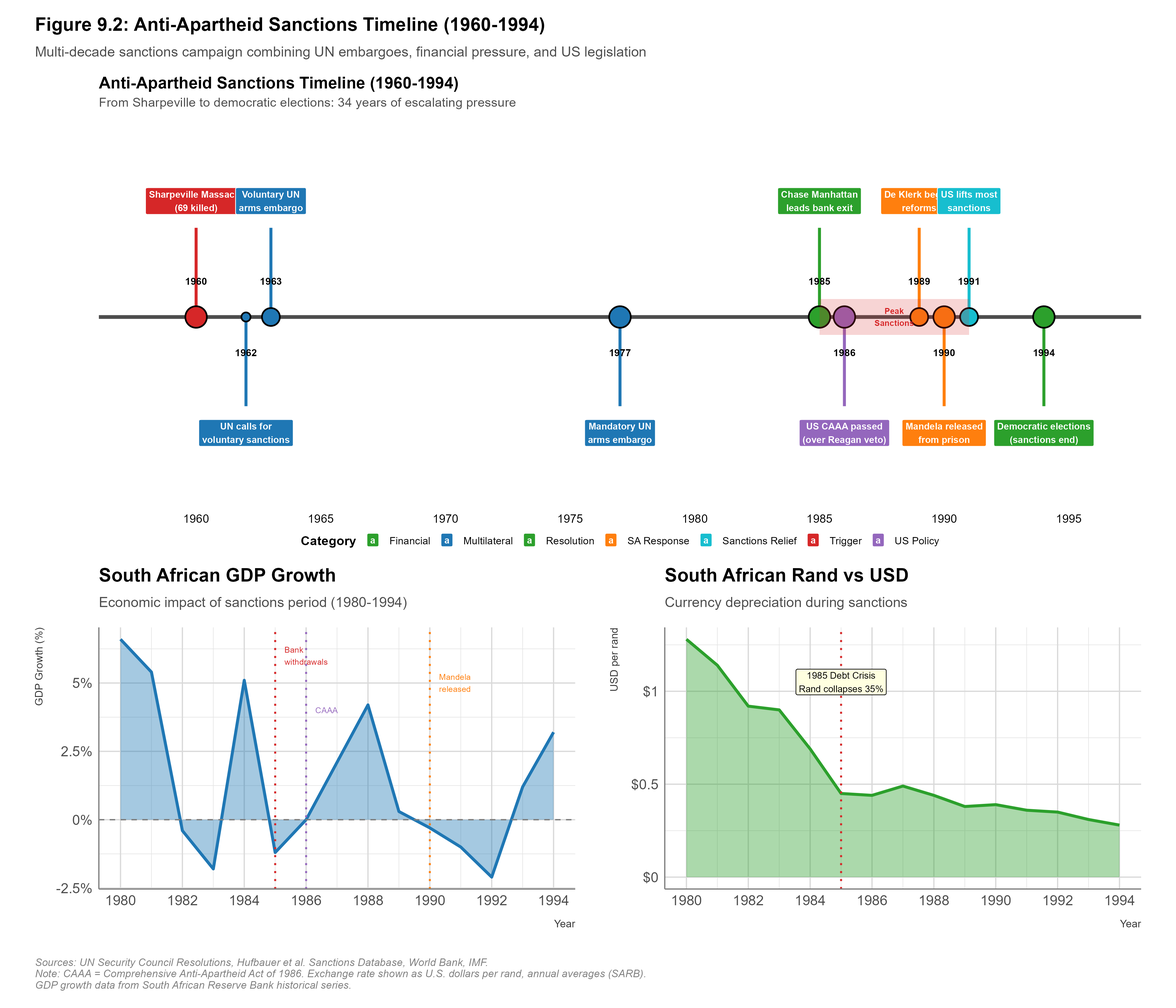
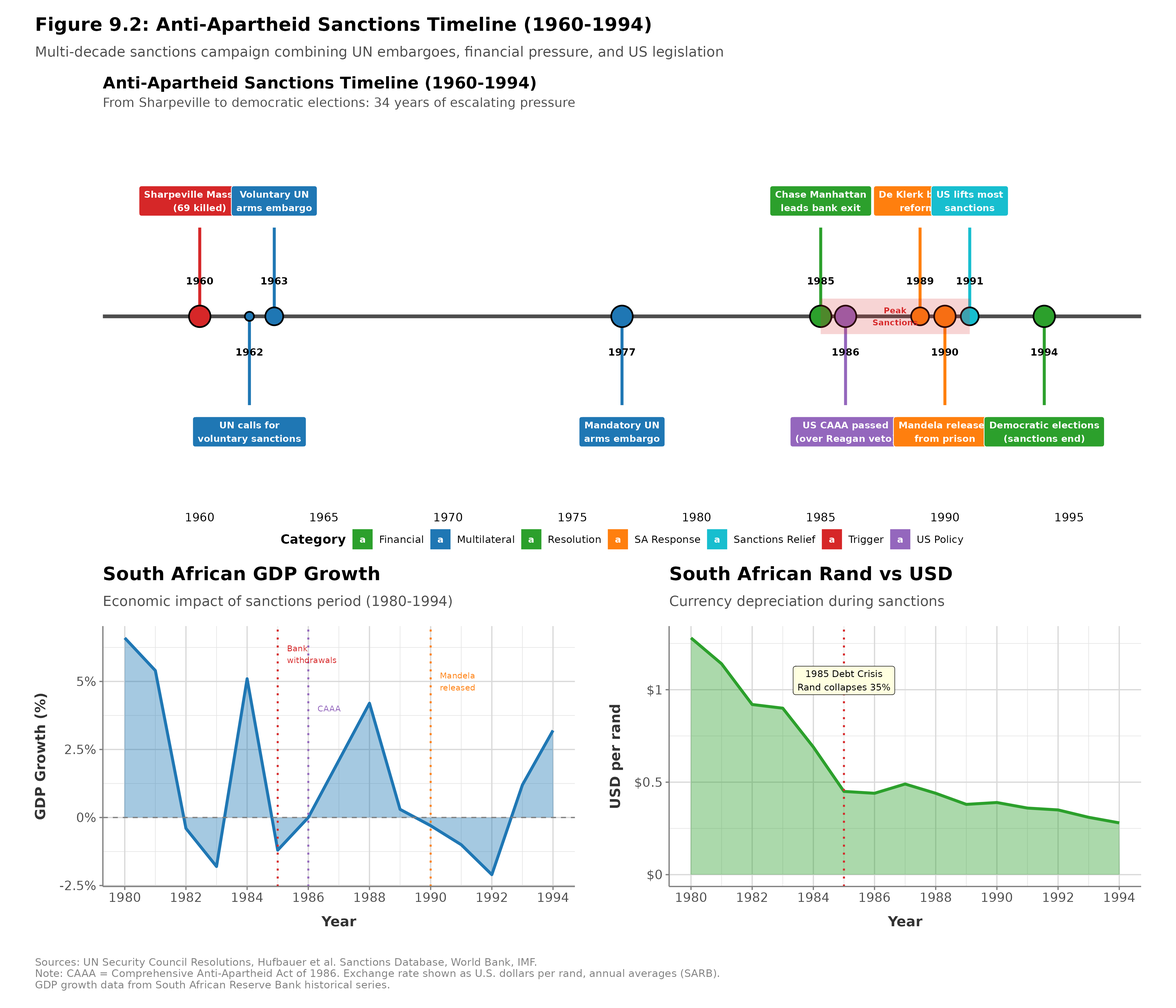
Discuss every figure in the prose; rebuild figures now that R is available
Five chapters (2, 3, 4, 7, 8) referred to none of their own figures, and across the
book only 11 of 42 embedded figures were mentioned in the text at all. Charts that
the prose never points at read as decoration, and several of these carry the
chapter's actual argument.

Added a sentence of interpretation immediately before each of the 42 figures. They
are written to add an angle rather than restate the caption: what the chart shows
that the surrounding paragraphs do not, what to be careful about in reading it, or
how it bears on the two-margins framework. Every embedded figure is now discussed.

Also rebuilt the figures whose plotting packages became available (49 of 62 scripts
now run here). The remaining 13 need tmap, rnaturalearth, treemapify, or ggradar,
which this environment cannot fetch; those are map and specialty figures whose
geography is unaffected by the data corrections, and their images are unchanged.

diff --git a/chapters/chapter_3.md b/chapters/chapter_3.md
@@ -142,10 +142,14 @@ Oil trade flows reveal critical dependencies. Europe imports approximately 90% o
 
 These chokepoints create strategic leverage for countries that can threaten closure (Iran over Hormuz, Yemen/Houthis over Bab el-Mandeb) and for naval powers that can secure or blockade them (United States, potentially China or India). They also shape energy policy: Japan's almost total dependence on oil transiting Malacca drives Japanese interest in Middle Eastern stability and U.S.-Japan security cooperation. China's anxiety about "Malacca Dilemma" motivates land-based alternatives (pipelines from Russia and Central Asia), naval expansion to protect sea lanes, and strategic petroleum reserves to buffer disruptions.
 
+Figure 3.1 renders these passages at the scale of the flows they carry. Hormuz dominates the picture for a reason that the map makes plain: no other chokepoint combines that volume with so little capacity to route around it.
+
 <figure class="book-figure">
   <img src="../figures/fig_03_04_chokepoints.png" alt="Critical maritime passages for global energy transit. The Strait of Hormuz handles 21 million barrels per day—closure would immediately trigger global recession. Size indicates oil transit volume; color indicates strategic importance.">
   <figcaption>Figure 3.1: Critical maritime passages for global energy transit. The Strait of Hormuz handles 21 million barrels per day—closure would immediately trigger global recession. Size indicates oil transit volume; color indicates strategic importance.</figcaption>
 </figure>
+
+Figure 3.2 extends the same logic from straits to terminals. Ownership of a port confers nothing as dramatic as the power to close a strait, but the map shows how widely distributed those holdings have become, and geography of this kind accumulates quietly and is difficult to reverse.
 
 <figure class="book-figure">
   <img src="../figures/fig_03_07_strategic_ports.png" alt="Global strategic ports by type and volume. Red circles indicate ports with significant Chinese ownership or operational control, illustrating the geographic scope of China's maritime investment strategy.">
@@ -161,6 +165,8 @@ Europe's dependence on Russian gas developed over decades and became a defining 
 Multiple pipelines carried Russian gas to Europe, forming an interconnected infrastructure network with distinct strategic implications. The Ukrainian transit routes were historically the largest, carrying 40-50% of Russian gas exports through Ukraine to Central and Western Europe (IEA 2022). Ukraine earned $2-3 billion annually in transit fees from this arrangement, but Russia repeatedly cut gas during disputes with Ukraine in 2006, 2009, and 2014, affecting downstream European customers and demonstrating gas's utility as coercive leverage. The five-year Russia-Ukraine transit contract expired on 1 January 2025 and was not renewed, ending Russian pipeline gas flows across Ukraine to Europe for the first time since the Soviet era (Reuters 2025). To reduce dependence on Ukrainian transit, Russia pursued alternative routes. Nord Stream 1, completed in 2011, ran as a subsea pipeline through the Baltic Sea directly from Russia to Germany, bypassing Ukraine entirely with a capacity of 55 billion cubic meters per year (bcm/year). Its parallel successor, Nord Stream 2, was completed in 2021 but never became operational; the project faced intense U.S. opposition from both the Trump and Biden administrations as well as Ukrainian and Polish objections, and Germany's certification process was suspended days before Russia's 2022 Ukraine invasion, after which the pipelines were destroyed by underwater explosions in September 2022. German federal prosecutors, who led the principal investigation, issued an arrest warrant in June 2024 for a Ukrainian national and in 2025 secured the arrest in Italy of another Ukrainian suspect, pointing to a Ukrainian-linked operation rather than the Russian sabotage many initially assumed. To the south, TurkStream, completed in 2020, carried gas through a subsea Black Sea pipeline to Turkey and onward to Southern Europe with a capacity of 31.5 bcm/year. The Yamal-Europe pipeline provided yet another route, running through Belarus and Poland to Germany, though Russia reduced flows through it in 2021-2022 as tensions escalated.
 
 This infrastructure created a relationship of asymmetric interdependence. Europe depended on Russian gas for heating, power generation, and industrial processes (especially the German chemical industry). Russia, in turn, depended on European energy revenue—though the fiscal stakes are often overstated. Oil and gas together supplied roughly 35-45% of Russian federal budget revenue in the years before 2022; natural gas alone accounted for a far smaller share, with pipeline gas exports to Europe worth on the order of $40-70 billion annually against total oil-and-gas budget revenues several times larger (IEA 2022). Conventional wisdom held that mutual dependence ensured supply stability, on the assumption that neither side could afford disruption. This was the standard logic of liberal internationalism, that deep economic investment in each other's prosperity makes war irrational. Russia's 2022 invasion of Ukraine falsified that assumption, indicating that regimes may value territorial objectives more than commerce.
+
+Figure 3.3 shows what that dependence looked like as physical infrastructure, and what became of it. The pipelines drawn in red and orange represent capital that took decades to build and was rendered idle in under a year, which is the most expensive illustration in this book of how quickly an asymmetric interdependence can be repriced.
 
 <figure class="book-figure">
   <img src="../figures/fig_03_08_russian_pipelines.png" alt="Russian oil and gas pipeline networks to Europe and Asia. Green indicates operational pipelines, orange shows reduced flow, red marks damaged or closed infrastructure. The Nord Stream pipelines were destroyed by underwater explosions in September 2022; Russian pipeline gas transit through Ukraine ended entirely on 1 January 2025, when the five-year transit contract expired.">
@@ -182,6 +188,8 @@ The winter of 2022-2023 was the period of greatest European vulnerability. Russi
 Longer-term restructuring followed. Germany announced 13+ new LNG terminals and diversification of supply. Eastern European nations accelerated connections to non-Russian sources. The European Union's REPowerEU plan targeted rapid renewable deployment, efficiency improvements, and hydrogen development to eliminate Russian fossil fuel imports by 2027. Whether Europe maintains the political will to sustain these investments, and whether the transition proves economically sustainable, remains uncertain. The crisis nonetheless showed that Russia would sacrifice gas revenue for geopolitical gains, and that energy dependencies constrain the foreign-policy autonomy of importers.
 
 ### Energy Transition: Trading Old Dependencies for New
+
+Figure 3.4 is the argument of this section in a single chart. Read beside Figure 3.3, it suggests that Europe's escape from Russian gas has not ended its exposure to energy geopolitics so much as changed the counterparty and moved the chokepoint upstream into manufacturing.
 
 <figure class="book-figure">
   <img src="../figures/fig_03_06_renewable_manufacturing.png" alt="China's dominant share in renewable energy manufacturing across solar, wind, and battery supply chains.">

diff --git a/chapters/chapter_1.md b/chapters/chapter_1.md
@@ -55,6 +55,8 @@ Henry Farrell and Abraham Newman's concept of "weaponized interdependence" captu
 
 These hub positions create what Farrell and Newman call "panopticon" and "chokepoint" effects. The panopticon effect allows the hub state to see network flows—monitoring transactions, communications, and exchanges. The chokepoint effect allows it to deny access—blocking specific actors from the network or withholding critical inputs. Both capabilities can be weaponized: surveillance enables intelligence gathering and sanctions enforcement, while denial enables coercion.
 
+Figure 1.1 draws these hub positions as a network rather than a list. Rendered this way, the asymmetry is visible without any accompanying statistic: a handful of nodes sit astride most of the paths through the system, and it is occupancy of those nodes, not aggregate economic size, that the rest of this book treats as the source of coercive power.
+
 <figure class="book-figure">
   <img src="../figures/fig_01_05_interdependence_network.png" alt="Network diagram of weaponized interdependence showing U.S. and Chinese hub positions across finance, technology, energy, and digital infrastructure.">
   <figcaption>Figure 1.1: Weaponized interdependence — hub positions of the United States and China across critical economic networks.</figcaption>
@@ -154,6 +156,8 @@ American policymakers embraced transformative engagement: integrating China into
 
 China's WTO accession in 2001 accelerated integration dramatically. Two-way trade in goods grew from $116 billion (2000) to $407.5 billion (2008) (U.S. Census Bureau; the trade figures cited in this book are two-way *goods* trade at nominal values unless noted—counting services would raise recent totals by roughly $100 billion). China became "the world's factory," and the relationship appeared to validate the liberal assumption that economic interdependence promotes cooperation.
 
+Figure 1.2 traces that relationship across three and a half decades. Two features deserve attention: the near-uninterrupted climb to the 2022 record, and the sharp contraction in 2025 under the tariff regime examined in Chapter 6. The second is a reminder that the interdependence described here is a policy variable, not a permanent condition.
+
 <figure class="book-figure">
   <img src="../figures/fig_01_02_us_china_trade.png" alt="US-China Trade Volume and Key Events (2000-2024)">
   <figcaption>Figure 1.2: US-China Trade Volume and Key Events (2000-2024)</figcaption>
@@ -172,6 +176,8 @@ American concerns intensified around IP theft, forced technology transfer, indus
 #### Phase 3: Strategic Competition (2017-Present)
 
 The 2017 National Security Strategy designated China a "strategic competitor" seeking to "erode American security and prosperity" (White House 2017)—a fundamental reframing from partner to rival. Economic statecraft became the primary domain of competition.
+
+Figure 1.3 arranges the principal episodes chronologically. The clustering is the point: the density of events after 2017 reflects not merely more assertive policy but the maturation of instruments — entity lists, foreign direct product rules, investment screening — that barely existed in usable form a decade earlier.
 
 <figure class="book-figure">
   <img src="../figures/fig_01_04_timeline.png" alt="Timeline of Major Economic Coercion Events">
@@ -298,6 +304,8 @@ Readers will encounter these three concepts repeatedly in the chapters that foll
 ## Conceptual Framework for Analyzing Economic Coercion
 
 Analyzing specific instances of economic coercion requires systematic analytical tools. This framework, applied throughout subsequent chapters, organizes analysis across four dimensions: **domain**, **target**, **objective**, and **intensity**.
+
+Figure 1.4 sets out the framework in schematic form. It is worth returning to as the chapters accumulate cases, since its value lies less in classifying any single episode than in making visible which combinations of domain, target, and objective recur and which are almost never attempted.
 
 <figure class="book-figure">
   <img src="../figures/fig_01_01_framework.png" alt="Conceptual Framework for Analyzing Economic Coercion">
@@ -611,6 +619,8 @@ The Coordinating Committee for Multilateral Export Controls (CoCom) represents t
 CoCom was created informally in 1949 (never codified by treaty) by the United States, United Kingdom, France, Italy, Netherlands, Belgium, and Luxembourg, later expanding to include all NATO members (except Iceland) plus Japan and Australia—17 members at peak. The committee maintained three control lists: munitions, atomic energy, and industrial/commercial items with potential military applications. Member countries agreed to deny export licenses for listed items to Soviet Union, Eastern European communist states, China (until 1980s), North Korea, Vietnam, Cambodia, and Laos.
 
 The organizational structure was deliberately informal: consensus decision-making, no enforcement mechanism, voluntary compliance by members. The U.S. provided most intelligence on Soviet technology gaps and applied diplomatic pressure for strict controls, while European members and Japan often preferred looser restrictions to maintain commercial opportunities.
+
+Figure 1.6 compresses CoCom's four decades into a single line. The durability is the finding: an arrangement with no treaty basis, no enforcement mechanism, and no secretariat worth the name outlasted most of the formal institutions of the period, which is the strongest available evidence that coordination in export control depends more on shared threat perception than on legal architecture.
 
 <figure class="book-figure">
   <img src="../figures/fig_01_06_cocom_timeline.png" alt="Timeline of CoCom from its 1949 founding through its 1994 dissolution and the 1996 establishment of the Wassenaar Arrangement, marking expansions, crises, and loosening episodes.">

diff --git a/chapters/chapter_6.md b/chapters/chapter_6.md
@@ -48,6 +48,8 @@ The Trump administration's broad interpretation of "national security" under Sec
 
 ### The U.S.-China Trade War: Escalation and Impacts
 
+Figure 6.1 tracks average applied tariff rates through the successive rounds. The stepwise shape matters for the argument that follows: tariffs escalated in discrete, announced increments and came down only partially, so that each truce reset the level rather than the instrument.
+
 <figure class="book-figure">
   <img src="../figures/fig_06_01_us_china_tariffs.png" alt="U.S.-China tariff rates and trade flows from 2018-2024, showing the escalation of the trade war.">
   <figcaption>Figure 6.1: U.S.-China tariff rates and trade flows from 2018-2024, showing the escalation of the trade war.</figcaption>
@@ -253,6 +255,8 @@ For all their differences, these regimes share a common set of pressures. The fi
 ### U.S. Unilateral Export Controls: The Export Administration Regulations
 
 The United States maintains the world's most extensive unilateral export control system, codified in the **Export Administration Regulations (EAR)**, 15 C.F.R. Part 730 et seq. The Commerce Department's Bureau of Industry and Security (BIS) administers EAR based on statutory authority from the **Export Control Reform Act of 2018** (ECRA), 50 U.S.C. § 4801 et seq. (For detailed legal analysis of EAR authorities, jurisdiction, enforcement, and the Entity List, see *Government Tools Box 3: Export Administration Regulations and Entity List.*)
+
+Figure 6.3 shows how quickly that list has grown. The trend line is more informative than any single designation: what began as a targeted proliferation tool has become a general-purpose instrument of technology policy, and the volume alone raises the administrative capacity questions taken up later in this chapter.
 
 <figure class="book-figure">
   <img src="../figures/fig_06_03_entity_list.png" alt="Entity List additions by administration, showing the growth of export control restrictions.">
@@ -512,6 +516,8 @@ China enacted Export Control Law (2020) establishing authority to:
 - **Antimony restrictions** (2024): Controls on antimony (used in semiconductors, solar panels, batteries, ammunition). China produces 48% globally, processes 63% (USGS 2024).
 - **Outright ban on exports to the United States** (December 2024): Responding to a fresh round of U.S. semiconductor controls, China banned exports of gallium, germanium, antimony, and superhard materials to the United States specifically—rather than merely licensing them—the first time Beijing singled out one country for a critical-mineral embargo (China Ministry of Commerce 2024).
 - **Rare-earth and magnet licensing** (April and October 2025): During the 2025 tariff escalation (see Case Study 1), China placed seven medium and heavy rare-earth elements and permanent-magnet products under export licensing (April 2025), then in October 2025 broadened the regime with extraterritorial provisions reaching any product made anywhere with Chinese-origin rare earths or processing technology—a mirror image of the U.S. Foreign Direct Product Rule. The controls were suspended for one year under the October 30 Busan truce (CSIS 2025).
+
+Figure 6.5 places China's rare-earth measures against the American actions that preceded them. The sequencing rewards attention: Beijing's instruments arrived later and were narrower in scope, but they were aimed at the stage of the supply chain where substitution takes longest, which is why their announcement moved prices that tariff rounds did not.
 
 <figure class="book-figure">
   <img src="../figures/fig_06_04_rare_earth_retaliation.png" alt="Chinese critical-mineral and rare-earth export retaliation measures 2010-2025, showing targeted controls on gallium, germanium, graphite, and antimony alongside global production shares.">
@@ -836,6 +842,8 @@ The central European dilemma is how to coordinate with the United States on Chin
 **Section 301 of the Trade Act of 1974** (19 U.S.C. § 2411-2420) authorizes the U.S. Trade Representative (USTR) to investigate and retaliate against foreign government practices that are "unjustifiable," "unreasonable," or "discriminatory" and burden U.S. commerce. Unlike Section 232 (which requires a national security nexus), Section 301 covers virtually any unfair trade practice, making it the most consequential trade remedy tool in modern strategic competition.
 
 **Key application — the U.S.-China trade war**: USTR's August 2017 investigation found China engaged in forced technology transfer, discriminatory licensing, state-directed technology acquisition, and cyber-enabled IP theft. Tariffs escalated in waves: 25% on $50 billion (mid-2018), 10-25% on $200 billion (September 2018-May 2019), and 15% on $112 billion (September 2019). The January 2020 Phase One Agreement reduced some tariffs, but purchase commitments went largely unfulfilled. The Biden administration maintained all tariffs and added targeted increases (EVs to 100%, solar to 50%, semiconductors to 50%). At peak, tariffs affected $360 billion in Chinese imports (66% of total) at an effective average rate of 19.3%.
+
+Figure 6.6 summarises the Section 301 actions and their coverage. The breadth is the striking feature: a statute drafted to remedy specific unfair trade practices has carried the legal weight of a general tariff programme, which is the background to the constitutional questions raised by the later IEEPA litigation.
 
 <figure class="book-figure">
   <img src="../figures/fig_06_06_section_301.png" alt="Section 301 tariff coverage by product category and administration, showing the expansion of coverage across Trump and Biden administrations.">

diff --git a/chapters/chapter_2.md b/chapters/chapter_2.md
@@ -53,6 +53,8 @@ Comprehensive supply chain mapping is beyond the scope of any single chapter (th
 
 **Semiconductors** represent the most consequential chokepoint in the global economy. The supply chain is highly specialized, with a distinct concentration at every stage: design happens primarily in the United States (Intel, AMD, Nvidia, Qualcomm, Apple), Europe (ARM), and increasingly China (Huawei's HiSilicon before U.S. sanctions); electronic design automation (EDA) software that makes chip design possible is dominated by three firms—Synopsys and Cadence, both American, and German-owned Siemens EDA—that together hold roughly three-quarters of the market (TrendForce 2024); manufacturing equipment comes from the U.S. (Applied Materials, Lam Research, KLA), the Netherlands (ASML with its monopoly on EUV lithography), and Japan (Tokyo Electron, Screen Holdings); and fabrication is dominated by Taiwan, whose TSMC near-monopoly on advanced chips is profiled in the deep-dive below, alongside South Korea (Samsung, SK Hynix with strength in memory chips) and a struggling U.S. incumbent, Intel. China remains weak in *advanced* fabrication—it makes almost none of the world's leading-edge chips—but it holds a substantial and fast-growing share of *overall* wafer capacity, roughly 15–20% of global installed capacity as of 2024 and concentrated at mature nodes of 28 nanometers and above (SIA 2024), backed by massive investment through the Big Fund (大基金) industrial policy initiative exceeding $100 billion.
 
+Figure 2.1 puts that division of labour on a map. What the exercise clarifies is how few places are involved: the chokepoints are not broad industrial regions but a short list of named facilities, several of them within artillery range of contested water.
+
 <figure class="book-figure">
   <img src="../figures/fig_02_01_semiconductor_geography.png" alt="Critical locations in the global semiconductor supply chain. Red circles indicate chokepoint facilities where disruption would cascade through global technology industries. TSMC's Taiwan fabs, ASML's Netherlands lithography equipment, and Japanese materials suppliers each represent single points of failure.">
   <figcaption>Figure 2.1: Critical locations in the global semiconductor supply chain. Red circles indicate chokepoint facilities where disruption would cascade through global technology industries. TSMC's Taiwan fabs, ASML's Netherlands lithography equipment, and Japanese materials suppliers each represent single points of failure.</figcaption>
@@ -149,6 +151,8 @@ This complexity means that no single country can produce advanced semiconductors
 
 ### Why Taiwan Matters
 
+Figure 2.2 attaches numbers to that concentration. TSMC's position is not the sort of majority antitrust lawyers argue about; at the most advanced nodes it approaches the entire market, which is why a single company's siting decisions have become a matter of national strategy for several governments at once.
+
 <figure class="book-figure">
   <img src="../figures/fig_02_02_tsmc_dominance.png" alt="TSMC's dominant global market share in advanced semiconductor manufacturing.">
   <figcaption>Figure 2.2: TSMC's dominant global market share in advanced semiconductor manufacturing.</figcaption>
@@ -227,6 +231,8 @@ The U.S.-China semiconductor competition is prolonged, expensive, and without a 
 The global energy transition—the shift from fossil fuels to renewable energy and electric vehicles—creates new supply chain dependencies that rival semiconductors in strategic significance. Paradoxically, escaping dependence on Middle Eastern oil for energy security may create even more acute dependencies on Chinese processing of the minerals required for batteries, solar panels, wind turbines, and electric motors. This section examines critical mineral chokepoints, how China achieved dominance, and what (if anything) can be done to reduce vulnerabilities.
 
 ### Minerals for Energy Transition
+
+Figure 2.3 shows why the distinction between extraction and refining carries most of the analytical weight. For nearly every mineral on the chart China's mining share is unremarkable and its processing share is decisive; the points sitting well above the diagonal are precisely the dependencies that cannot be resolved by opening a new mine.
 
 <figure class="book-figure">
   <img src="../figures/fig_02_03_critical_minerals.png" alt="Critical minerals supply chain concentration showing China's dominance in processing.">

diff --git a/chapters/chapter_8.md b/chapters/chapter_8.md
@@ -28,6 +28,8 @@ Government Tools Boxes detail CFIUS procedures, FIRRMA expansion, and industrial
 
 These themes reflect economic statecraft's evolution beyond traditional trade and financial tools. Capital flows, industrial capabilities, and market access have become contested domains, with implications extending well beyond bilateral U.S.-China competition to allied policy coordination, development finance, and the future shape of globalization.
 
+Figure 8.1 maps the resulting footprint. Its usefulness is less in any single project than in the pattern: the corridors follow overland and maritime routes that connect Chinese industrial capacity to markets and raw materials, which is what distinguishes a development programme from an infrastructure spending spree.
+
 <figure class="book-figure">
   <img src="../figures/fig_08_01_bri_infrastructure.png" alt="Key Belt and Road Initiative infrastructure investments. Port investments (blue) extend Chinese maritime presence; rail projects (red) create overland connectivity; corridor investments (orange) integrate regional economies. Size indicates investment scale in USD billions.">
   <figcaption>Figure 8.1: Key Belt and Road Initiative infrastructure investments. Port investments (blue) extend Chinese maritime presence; rail projects (red) create overland connectivity; corridor investments (orange) integrate regional economies. Size indicates investment scale in USD billions.</figcaption>
@@ -132,6 +134,8 @@ FIRRMA authorized increased CFIUS staffing and funding (from ~20 full-time emplo
 - Extensions possible by mutual agreement
 
 ### Impact on Chinese Investment: Near-Total Collapse
+
+Figure 8.2 shows how completely that flow reversed. The collapse from the 2016 peak is steep enough that the policy question has changed: screening regimes built to handle a surge now operate in an environment where the surge has already ended, and the binding constraint on Chinese investment is at least as much Beijing's capital controls as Washington's review process.
 
 <figure class="book-figure">
   <img src="../figures/fig_08_02_chinese_fdi.png" alt="Chinese foreign direct investment in U.S. and Europe from 2008-2024, showing the dramatic collapse after FIRRMA.">
@@ -372,6 +376,8 @@ China's National Integrated Circuit Industry Investment Fund (the "Big Fund") ex
 The **results** of these investments have been mixed. The Chinese semiconductor industry has expanded capacity dramatically, but significant technology gaps persist. SMIC achieved a notable milestone by demonstrating 7nm chip production for the Huawei Mate 60 Pro despite equipment restrictions, though yields reportedly remain low at 40-50%. Chinese firms produce mature-node manufacturing tools but lag 10-15 years behind the cutting edge in lithography, etching, and deposition equipment. China's share of global semiconductor production capacity rose from 12% in 2015 to 24% in 2024, but this growth concentrates in mature nodes (28nm and above), with advanced node production (14nm and below) remaining a small share. Questions of efficiency also cloud the picture: massive capital investment yielded progress but at high cost, and multiple Big Fund corruption scandals---with executives arrested for embezzlement---raise serious doubts about allocation efficiency.
 
 ### Comparing Approaches: Market-Driven vs. State-Directed
+
+Figure 8.3 sets the recent programmes side by side. The comparison should be read with care — the entries differ in duration, in the mix of grants, loans, and tax credits, and in how much was appropriated versus disbursed — but even after those caveats the convergence is the point: the distinction between market-driven and state-directed approaches has narrowed considerably from the American side.
 
 <figure class="book-figure">
   <img src="../figures/fig_08_03_industrial_policy.png" alt="Industrial policy spending comparison between the U.S. and China across key technology sectors.">

diff --git a/chapters/chapter_7.md b/chapters/chapter_7.md
@@ -34,6 +34,8 @@ Financial sanctions' effectiveness derives from the U.S. dollar's dominant posit
 
 ### The Dollar's Privileged Position
 
+Figure 7.1 shows the holdings that give this section its subject. The detail worth noting is China's trajectory: down by nearly half from its 2014 peak and, since the March 2025 TIC release, behind both Japan and the United Kingdom. Whatever leverage a large Treasury position was once thought to confer, Beijing has spent a decade reducing its exposure to it.
+
 <figure class="book-figure">
   <img src="../figures/fig_07_01_treasury_holdings.png" alt="Foreign holdings of U.S. Treasury securities by country, showing the scale of dollar-denominated asset accumulation.">
   <figcaption>Figure 7.1: Foreign holdings of U.S. Treasury securities by country, showing the scale of dollar-denominated asset accumulation.</figcaption>
@@ -89,6 +91,8 @@ Dollar-denominated debt owed by borrowers outside the United States totaled roug
 ### Payment System Infrastructure: SWIFT and Correspondent Banking
 
 **Society for Worldwide Interbank Financial Telecommunication (SWIFT)**
+
+Figure 7.2 records what has actually happened to currency shares over the period in which de-dollarization has been most discussed. The dollar's share of payment value rose after 2022 rather than falling, and the renminbi peaked in 2023 before receding — a pattern worth holding in mind through the sections that follow, which take the alternatives seriously without assuming they are winning.
 
 <figure class="book-figure">
   <img src="../figures/fig_07_02_swift_currencies.png" alt="Currency share of global payments via SWIFT, demonstrating dollar and euro dominance in international transactions.">
@@ -243,6 +247,8 @@ The Office of Foreign Assets Control (OFAC) within the U.S. Department of Treasu
 OFAC operates under multiple statutory authorities. The primary basis is **IEEPA** (detailed in Chapter 1's Government Tools Box), which grants the President broad power to block transactions, freeze assets, and regulate economic activity during declared national emergencies. Additional authorities include **TWEA** (Trading with the Enemy Act, now applicable only to Cuba), **country-specific statutes** (CISADA for Iran, CAATSA for Russia/Iran/North Korea, the Magnitsky Acts for human rights abusers), and **UN Security Council resolutions**. These statutes sometimes constrain presidential discretion by mandating specific sanctions or limiting waivers, but IEEPA provides broad residual authority for additional measures.
 
 ### Types of Sanctions Programs
+
+Figure 7.3 gives the shape of the portfolio these authorities have produced. The growth is less a series of discrete decisions than an accumulation: programs are added far more readily than they are retired, which is one reason the question of off-ramps recurs throughout this chapter.
 
 <figure class="book-figure">
   <img src="../figures/fig_07_03_sanctions_programs.png" alt="Active U.S. sanctions programs by type, showing the growth of comprehensive and targeted sanctions over time.">
@@ -404,6 +410,8 @@ This is the substitution margin of Chapter 1 operating in the financial domain. 
 ### Motivations for De-dollarization
 
 **Sanctions Vulnerability**
+
+Figure 7.4 shows where the Russian central bank's reserves were held when they were frozen, and the distribution explains why the freeze worked. Reserves are not stored domestically; they sit as claims on foreign institutions, which means the jurisdictions hosting those claims can immobilise them without moving anything at all.
 
 <figure class="book-figure">
   <img src="../figures/fig_07_04_russian_frozen_assets.png" alt="Russian central bank assets frozen in 2022, showing the geographic distribution of $300+ billion in immobilized reserves.">

diff --git a/chapters/chapter_9.md b/chapters/chapter_9.md
@@ -58,6 +58,8 @@ Despite limitations, scholarly consensus holds CoCom meaningfully degraded Sovie
 
 ### Grain Embargo (1980): Unilateral Failure
 
+Figure 9.1 shows why the embargo failed. Soviet grain imports barely dipped; the volumes simply changed flag, with Argentine and Canadian sellers absorbing the business American farmers gave up. Few cases in this book illustrate a wide substitution margin so cleanly.
+
 <figure class="book-figure">
   <img src="../figures/fig_09_01_soviet_grain.png" alt="Soviet grain imports by source country from 1975-1985, showing how alternative suppliers filled the gap left by the U.S. embargo.">
   <figcaption>Figure 9.1: Soviet grain imports by source country from 1975-1985, showing how alternative suppliers filled the gap left by the U.S. embargo.</figcaption>
@@ -151,6 +153,8 @@ The most consequential single measure was the U.S. Comprehensive Anti-Apartheid 
 - Required U.S. firms operating in South Africa to follow the Sullivan Principles on fair employment practices
 
 The European Community imposed its own investment restrictions and bans on steel and gold krugerrand imports, though the United Kingdom resisted comprehensive measures; across the Commonwealth, member states adopted a patchwork of sanctions, with Canada, Australia, and India particularly active. The financial track bit hardest: banks such as Citibank and Barclays withdrew from South Africa, cutting off credit and forcing debt renegotiations as capital flight accelerated. A parallel disinvestment campaign, in which universities, pension funds, and municipalities sold off their South African holdings, pressured corporations to leave—by 1989, more than 200 U.S. companies had exited the country (Crawford and Klotz 1999).
+
+Figure 9.2 sets the sanctions measures against South African financial indicators. The 1985 inflection is the one to note: the decisive pressure came not from the trade measures but from the refusal of foreign banks to roll over short-term debt, which is a mechanism the trade-focused literature on this case tends to under-weight.
 
 <figure class="book-figure">
   <img src="../figures/fig_09_02_apartheid_timeline.png" alt="Timeline of anti-apartheid sanctions from 1960 to 1994 with panels showing South African GDP growth and the rand's depreciation against the dollar over the sanctions period.">
@@ -366,6 +370,8 @@ The fourth pathology is subtler and institutional: governments impose sanctions 
 ### Comparative Success Rates and Measurement Challenges
 
 **Quantitative studies** (Hufbauer et al. 2007; Biersteker et al. 2016; Pape 1997; Drezner 1999) put the success rate at roughly a third of cases: Hufbauer, Schott, Elliott, and Oegg code about 34% of their 200-plus episodes as achieving "at least partial success." The figure is highly sensitive to how success is defined and which cases are counted—Pape, excluding episodes backed by concurrent military force, puts the effective rate closer to 5%, while the "partial success" coding is itself generous.
+
+Figure 9.3 displays these coding results by sanction type. The figures should be read with the caveats above firmly in mind — the categories overlap, the coding is generous, and the sample is of episodes that reached the historical record — but the ordering across types is more robust than the levels.
 
 <figure class="book-figure">
   <img src="../figures/fig_09_03_sanctions_success.png" alt="Sanctions success rates by objective and era, showing variation based on goal type and historical period.">

diff --git a/chapters/chapter_10.md b/chapters/chapter_10.md
@@ -35,6 +35,8 @@ The U.S. dollar's role as global reserve currency and dominant medium of exchang
 
 ### Dollar Privilege and Its Vulnerabilities
 
+Figure 10.1 sets out the reserve-currency trajectory that the scenarios in this chapter turn on. The decline in the dollar's share is real but gradual, and it has been running at a pace that would take decades to displace incumbency — which is why the interesting question is not the trend but what could interrupt it.
+
 <figure class="book-figure">
   <img src="../figures/fig_10_01_dollar_reserves.png" alt="Projected dollar share of global reserves under different scenarios from 2024-2050.">
   <figcaption>Figure 10.1: Projected dollar share of global reserves under different scenarios from 2024-2050.</figcaption>
@@ -227,6 +229,8 @@ Extending the analysis of Chapter 9, climate migration opens several coercive op
 Artificial intelligence, quantum computing, biotechnology, and space systems mark the technological frontiers where strategic competition will intensify. Unlike the historical technology races over nuclear weapons or semiconductors, with their relatively clear milestones and state-dominated development, these emerging fields share a set of features that make them harder to govern. Development is diffuse, spread across private firms, universities, and startups alongside government programs. Applications are dual-use, their commercial and military faces intertwined. Innovation cycles run faster than in traditional hardware. And success depends on global talent pools, on the ability to attract international scientists and engineers. Economic coercion tools must adapt to control the strategic diffusion of technologies built this way.
 
 ### Artificial Intelligence: The Defining Technology Competition
+
+Figure 10.3 revisits the AI indicators introduced in Chapter 4, now as inputs to the scenarios below. Their divergence is what makes the technology competition hard to score in advance, and it is the principal reason the scenario probabilities offered here are wide.
 
 <figure class="book-figure">
   <img src="../figures/fig_10_03_ai_indicators.png" alt="AI development indicators comparing U.S. and China across research, talent, compute, and applications.">

diff --git a/chapters/chapter_4.md b/chapters/chapter_4.md
@@ -182,6 +182,8 @@ The cat-and-mouse did not end there, and its next round produced an entirely new
 
 ### AI Research Leadership: Publications, Patents, and Talent
 
+Figure 4.1 assembles the standard indicators of AI capability, and the first thing it shows is that they disagree with one another. Publication counts, patent filings, private investment, and top-tier talent each produce a different ranking, which is why any confident claim about who is 'ahead' in artificial intelligence is usually a claim about which indicator the speaker has chosen.
+
 <figure class="book-figure">
   <img src="../figures/fig_04_01_ai_development.png" alt="AI research output and impact by country, showing publications, citations, and talent distribution.">
   <figcaption>Figure 4.1: AI research output and impact by country, showing publications, citations, and talent distribution.</figcaption>
@@ -348,6 +350,8 @@ The biosecurity risks of this competition run in several directions at once: red
 ### R&D Spending and the Race for Investment
 
 Research and development investment determines long-term technological leadership, yet measuring and comparing R&D spending across countries involves definitional challenges, data quality concerns, and questions about efficiency versus quantity. Nevertheless, broad patterns reveal intensifying competition where Chinese R&D investment rivals or exceeds American levels while questions persist about which system generates more innovation per dollar invested.
+
+Figure 4.2 plots these totals on the purchasing-power basis, where the convergence is genuine and the crossing point is near. On market exchange rates the same two series remain roughly a factor of two apart, and the gap between those two readings — not any dispute about the underlying data — is what most disagreements about Chinese research spending actually turn on.
 
 <figure class="book-figure">
   <img src="../figures/fig_04_02_rd_spending.png" alt="R&D spending by country from 1990-2024, showing the dramatic rise of Chinese investment.">

diff --git a/chapters/chapter_5.md b/chapters/chapter_5.md
@@ -27,6 +27,8 @@ Standards competition operates on a different timeline. When Huawei's 5G specifi
 
 The tools of twentieth-century trade policy fit this domain poorly. An export embargo can stop a machine but not an algorithm. Financial sanctions struggle against cyber operations conducted through proxies and shell companies with shifting identities, and tariffs are irrelevant for digital services delivered through internet connections. The domain instead calls for technical measures, regulatory approaches, standards engagement, and narrative contestation. The transformation of competition in an increasingly digital world has only begun.
 
+Figure 5.1 shows the physical layer beneath all of this. The map is a useful corrective to the language of "cyberspace": the traffic runs through a finite number of cables landing at a finite number of beaches, and the resulting geography is as concrete, and about as defensible, as a pipeline network.
+
 <figure class="book-figure">
   <img src="../figures/fig_05_01_subsea_cables.png" alt="Global subsea telecommunications cable infrastructure. Over 95% of intercontinental data travels via undersea cables, making landing points and cable routes critical chokepoints for global connectivity. Critical hubs (red) include major data centers and internet exchange points.">
   <figcaption>Figure 5.1: Global subsea telecommunications cable infrastructure. Over 95% of intercontinental data travels via undersea cables, making landing points and cable routes critical chokepoints for global connectivity. Critical hubs (red) include major data centers and internet exchange points.</figcaption>
